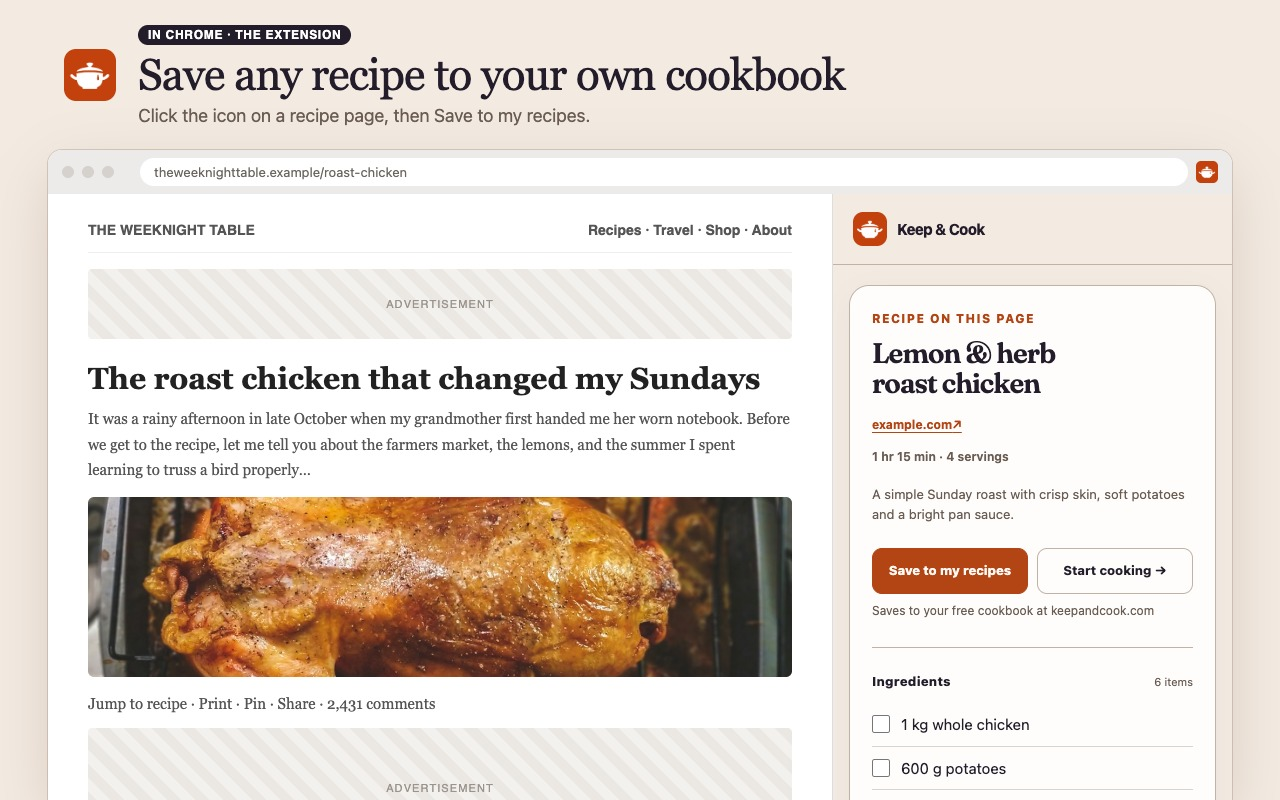
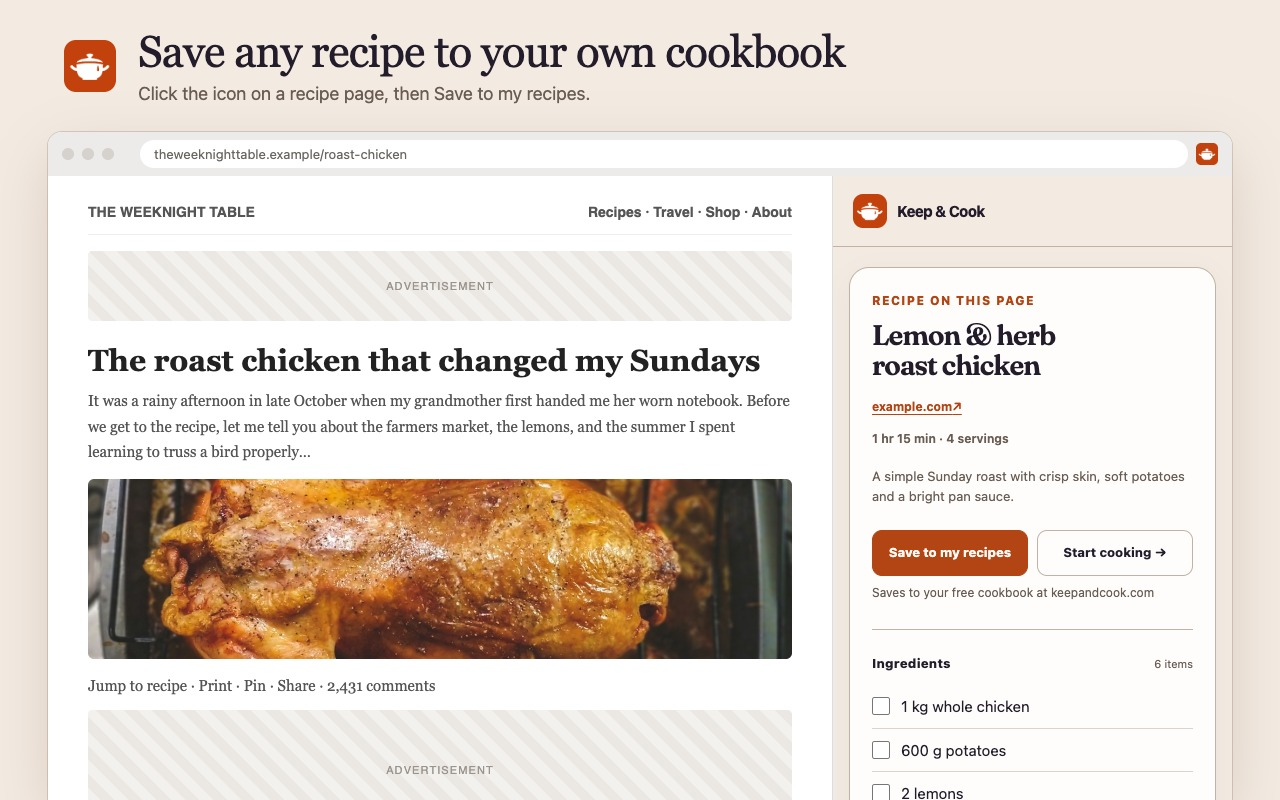
Listing: plain screenshots, description as numbered steps

diff --git a/docs/chrome-web-store.md b/docs/chrome-web-store.md
@@ -25,28 +25,22 @@
 ```
 Save recipes from any website to your own cookbook.
 
-Keep & Cook has two parts that work together:
-1. This Chrome extension: it works on the recipe page you are visiting.
-2. Your cookbook at keepandcook.com: a free web app where your saved recipes live. It opens in any browser and installs on your phone like an app.
+Keep & Cook is two things: this Chrome extension, which works on the recipe page you are reading, and your free cookbook at keepandcook.com, where saved recipes live. Here is how they fit together.
 
-HOW IT WORKS
-1. On a recipe page, click the Keep & Cook icon. The recipe opens in a side panel.
-2. Click "Save to my recipes". keepandcook.com opens with the recipe ready. Sign in or create a free account, check it and save.
-3. Open your cookbook at keepandcook.com any time, on your computer or your phone.
+STEP 1. Open a recipe in Chrome (extension, no account needed)
+On any recipe page, click the Keep & Cook icon. A side panel opens next to the page with just the ingredients and steps: no life story, no pop-ups, no ads in the way. Tick off ingredients as you gather them, or download the recipe as a text file.
 
-IN CHROME: THE EXTENSION (no account needed)
-• A clean side panel with just the ingredients and steps: no life story, no pop-ups, no ads in the way.
-• Tick off ingredients as you gather them.
-• Cooking mode over the page: large text, one step at a time, step timers, and the screen stays on.
-• Download the recipe as a text file.
-• "Save to my recipes" sends it to your cookbook.
+STEP 2. Save it (extension → keepandcook.com)
+Click "Save to my recipes". keepandcook.com opens in a new tab with the recipe ready. Sign in or create a free account, check the recipe, edit it if you like, and save.
 
-AT KEEPANDCOOK.COM: YOUR COOKBOOK (free account)
-• All your saved recipes in one place, with photos, ingredients, steps and a link to the original.
-• Search, and sort recipes into collections like Breakfast or Dinner.
-• Edit any recipe, add family recipes by hand, or paste a recipe link.
-• Cooking mode for every saved recipe.
-• On your phone: add keepandcook.com to your home screen. Your recipes are there even offline.
+STEP 3. Find it in your cookbook (keepandcook.com, free account)
+All your saved recipes are in one place, with photos, ingredients, steps and a link to the original. Search them and sort them into collections like Breakfast or Dinner. You can also add family recipes by hand or paste a recipe link.
+
+STEP 4. Take it to the kitchen (keepandcook.com on your phone)
+Open keepandcook.com on your phone and add it to your home screen. It works like an app, and your recipes are there even offline.
+
+STEP 5. Cook step by step (in the extension or in your cookbook)
+Cooking mode shows large text, one step at a time, with step timers, and keeps the screen on. Start it right on the recipe page from the extension, or from any recipe in your cookbook.
 
 PRIVACY
 The extension reads a page only when you click its icon on that page. It has no access to the sites you browse otherwise. No analytics, no tracking, no ads. Your cookbook is private to your account.
@@ -54,7 +48,7 @@ The extension reads a page only when you click its icon on that page. It has no 
 Works on most recipe sites that publish structured recipe data. If a page has none, Keep & Cook reads that public page for you.
 ```
 
-**Graphics:** `docs/store/`, в этом порядке. Над заголовком каждого кадра метка, где это происходит: «In Chrome · extension» или «At keepandcook.com · your cookbook».
+**Graphics:** `docs/store/`, в этом порядке (совпадает с шагами описания):
 1. `1-save.jpg`: сайт с рецептом и панель, акцент на «Save to my recipes».
 2. `2-library.jpg`: библиотека на компьютере, «Recipe saved to your library».
 3. `3-phone.jpg`: библиотека и рецепт на телефоне (PWA).
